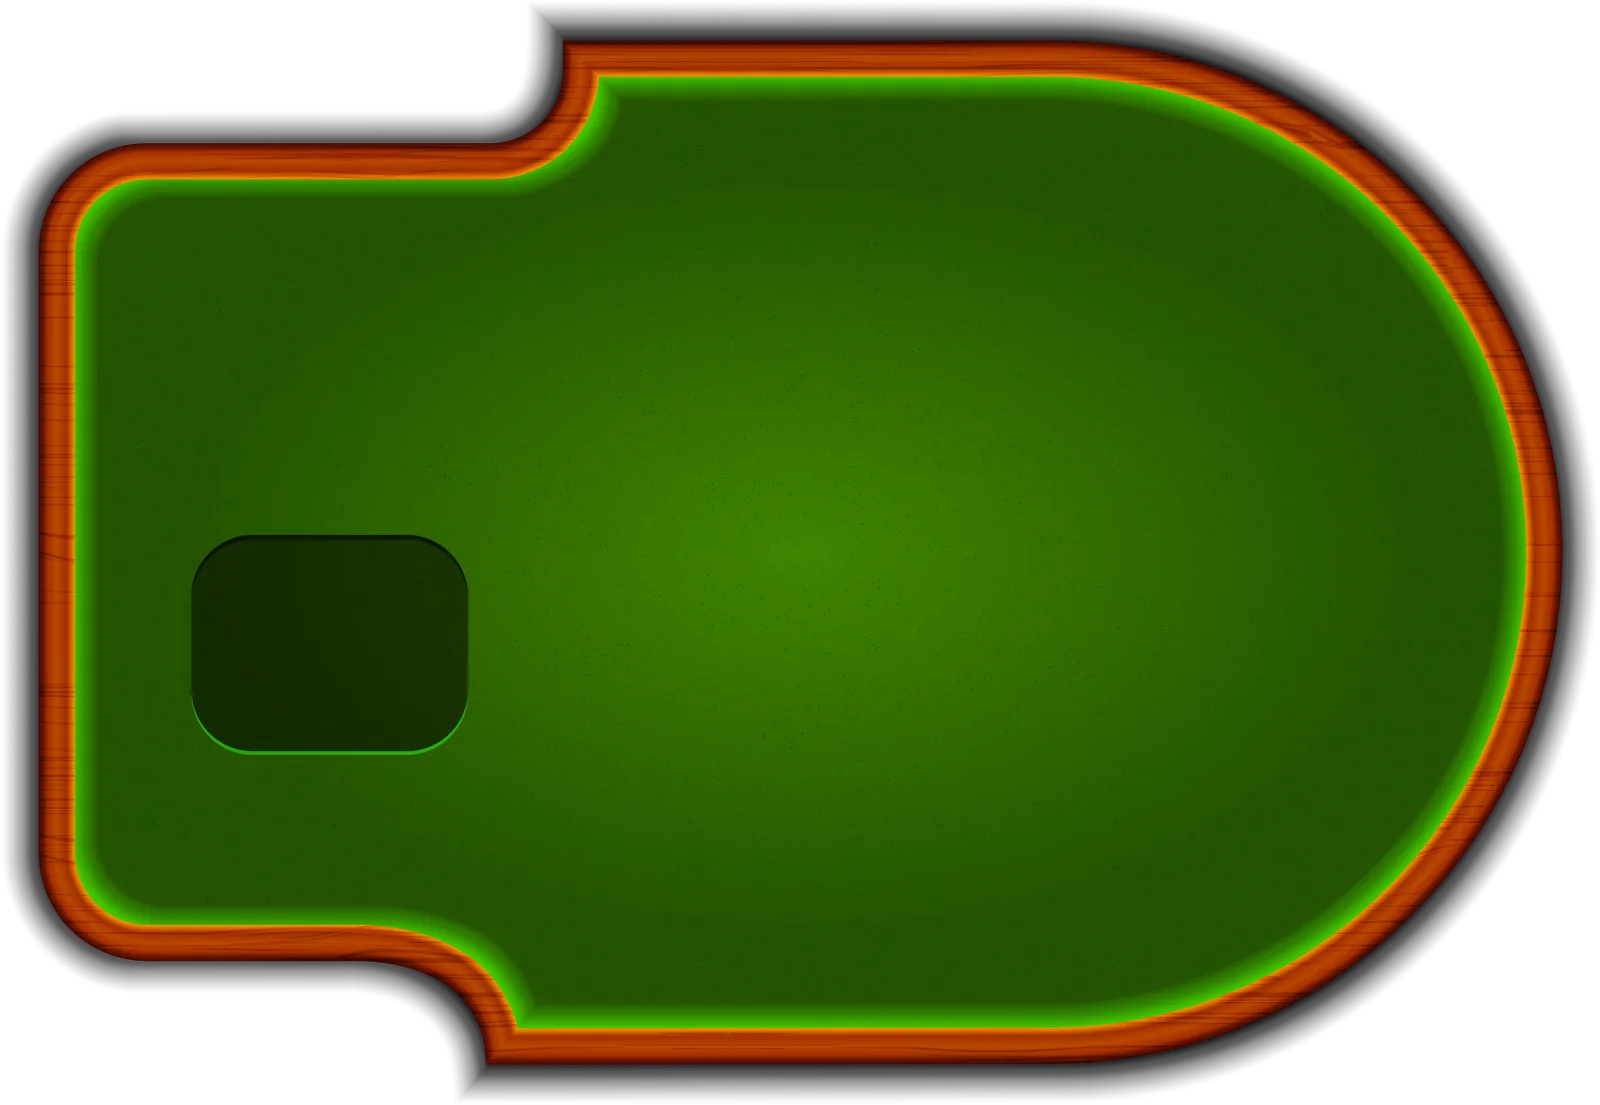
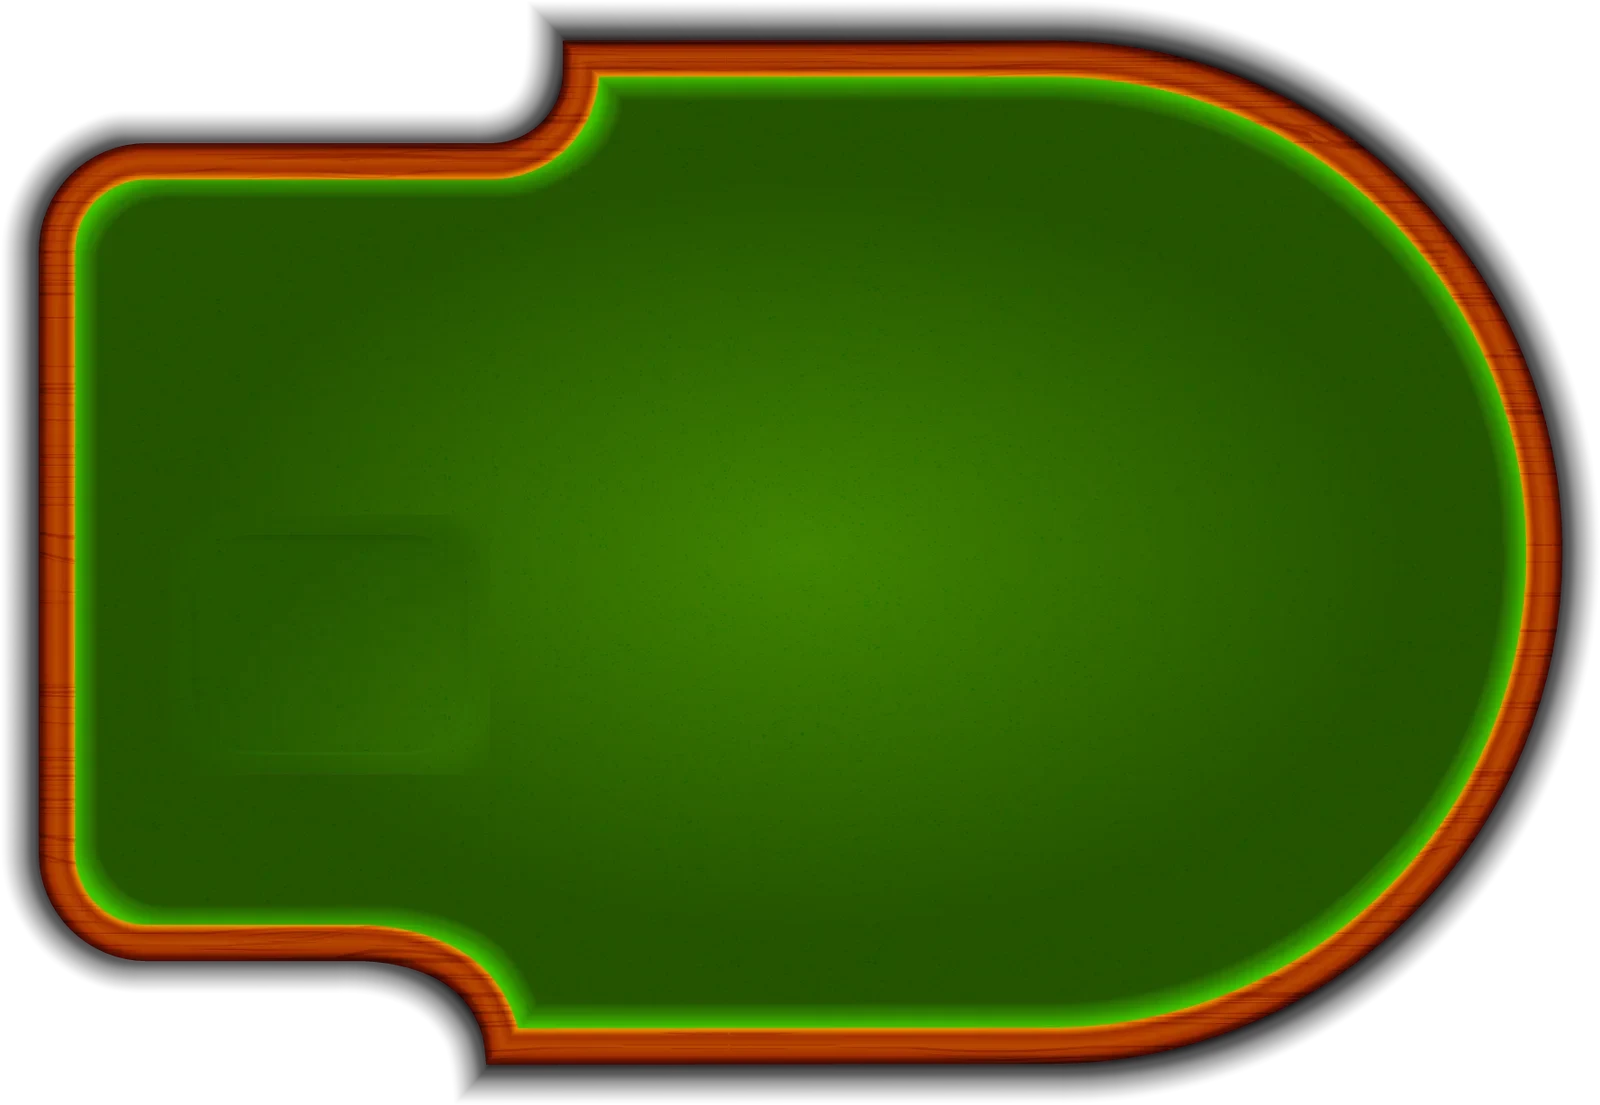
Round 57: roulette felt art without the stray tray recess
Claude-Session: https://claude.ai/code/session_01LcC21fng844zb5K8BRYuAt

Changed region(s): [[0.0938, 0.4615, 0.3125, 0.7077]]

diff --git a/LuckyVault/public/sw.js b/LuckyVault/public/sw.js
@@ -1,5 +1,5 @@
 // Offline cache for the game client (API calls always go to the network).
-const V = 'lv-v132';
+const V = 'lv-v133';
 const FILES = ['./', './index.html', './config.js', './manifest.webmanifest', './js/slots-engine.js', './js/catalog.js', './js/tables-engine.js', './js/tables-ui.js', './js/social.js', './js/fx.js', './js/feat-ui.js', './js/hov-ui.js', './js/roadmap.js', './js/vegas.js', './js/rules.js', './js/onboard.js', './js/friends-ui.js', './js/rg.js', './js/support-ui.js', './js/replay.js', './js/fx2.js', './js/i18n.js', './js/iap.js', './assets/fonts/Anton.woff2', './assets/fonts/Cinzel.woff2', './icons/icon-192.png', './icons/icon-512.png'];
 self.addEventListener('install', e => { e.waitUntil(caches.open(V).then(c => c.addAll(FILES)).then(() => self.skipWaiting())); });
 self.addEventListener('activate', e => { e.waitUntil(caches.keys().then(ks => Promise.all(ks.filter(k => k !== V).map(k => caches.delete(k)))).then(() => self.clients.claim())); });

diff --git a/LuckyVault/CHANGELOG.md b/LuckyVault/CHANGELOG.md
@@ -553,3 +553,6 @@ Frame-by-frame phone QA (idle, bet, deal x8, result, squeeze) in 中文 and Engl
 - Baccarat, Three Card Poker, Sic Bo, Roulette, Blackjack checked on a laptop-size screen: the new zoned layouts scale correctly. Fixed: the rule printed on the felt edge (DEALER PLAYS WITH QUEEN HIGH OR BETTER, BLACKJACK PAYS 3 TO 2 …) was English in 中文 mode — now follows the language setting for all 10 tables that have one.
 - Parked: on desktop roulette the felt artwork's cut-out sits slightly left of the number board (art alignment, cosmetic).
 - sw lv-v132. Tests 90/90.
+
+## Round 57 (02:27) — Roulette felt art fixed
+- The roulette felt image had a dark chip-tray recess that showed as a black box next to the 0 on desktop. Painted it out (felt patch matched to the surrounding brightness, soft edges). Original kept as /tmp backup. sw lv-v133. Tests 90/90.
